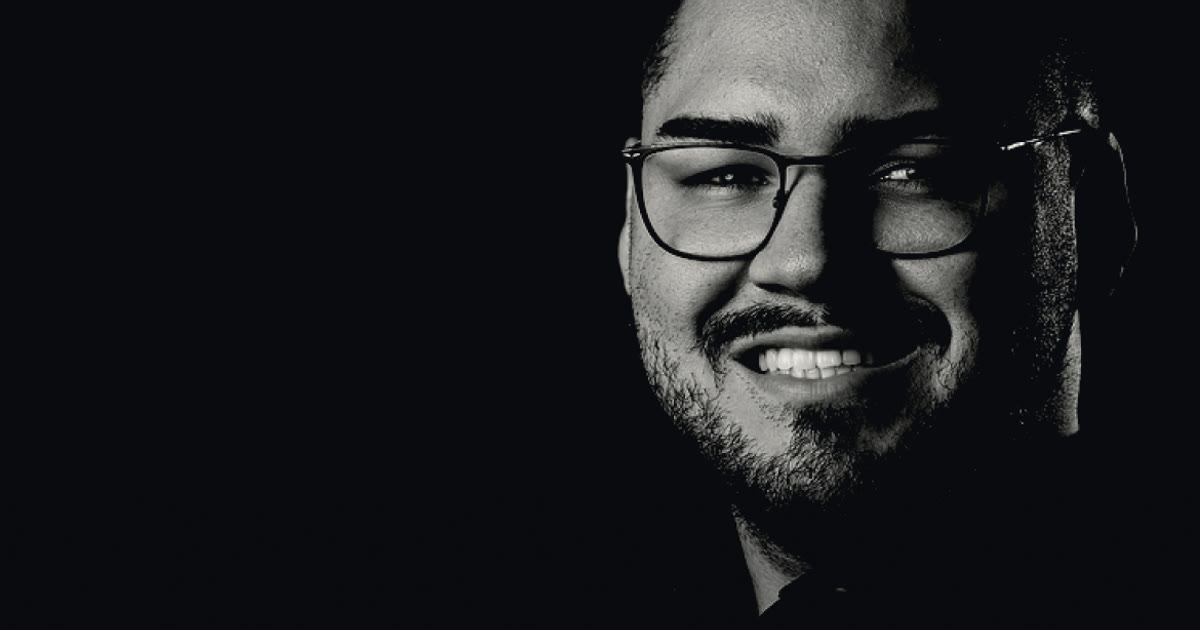
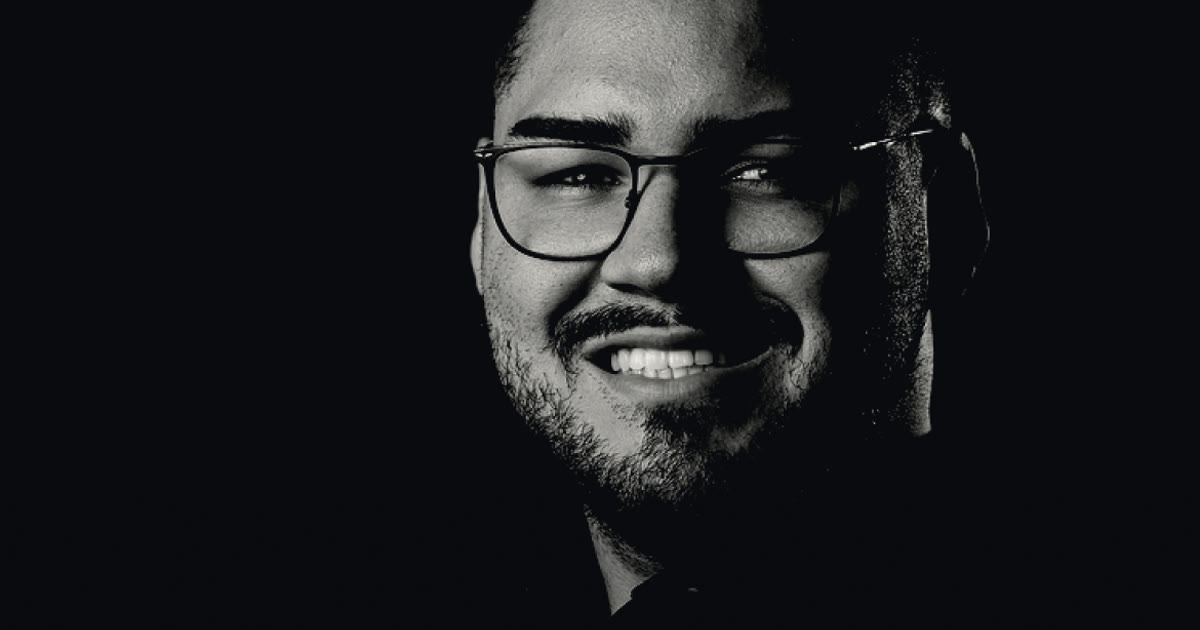
Sanfonas fechadas, botões arredondados e foto mais à esquerda

diff --git a/index.html b/index.html
@@ -47,21 +47,21 @@ img{display:block;max-width:100%}
 .faixa-grupo span{font-size:17px;font-weight:700;letter-spacing:-.01em;white-space:nowrap}
 .faixa-grupo svg{width:14px;height:14px;flex:none}
 .links{padding:40px 24px 48px;display:grid;gap:12px}
-.link{display:flex;align-items:center;gap:16px;padding:18px 20px;background:linear-gradient(90deg,#ECE7DD,#DCD6CA);transition:transform .25s ease,box-shadow .25s ease}
+.link{display:flex;align-items:center;gap:16px;padding:18px 20px;border-radius:20px;background:var(--linen);transition:transform .25s ease,box-shadow .25s ease}
 .link:hover,.link:focus-visible{transform:translateY(-2px);box-shadow:0 10px 24px -14px rgba(10,10,15,.45)}
 .link:active{transform:translateY(0) scale(.99)}
 .link-textos{flex:1;display:grid;gap:4px;min-width:0}
 .link-rotulo{font-size:10px;font-weight:600;letter-spacing:.14em;text-transform:uppercase;opacity:.55}
 .link-titulo{font-size:18px;font-weight:700;letter-spacing:-.02em;line-height:1.25}
 .link-apoio{font-size:13px;line-height:1.35;opacity:.65}
-.link-botao{width:44px;height:44px;background:linear-gradient(90deg,#24242C,#0A0A0F);display:grid;place-items:center;flex:none}
+.link-botao{width:44px;height:44px;border-radius:50%;background:var(--ink);display:grid;place-items:center;flex:none}
 .link-botao svg{width:16px;height:16px;transform:rotate(-45deg);transition:transform .25s ease}
 .link:hover .link-botao svg,.link:focus-visible .link-botao svg{transform:rotate(-45deg) translateX(3px)}
-.link-destaque{background:linear-gradient(90deg,#C10016,#8E0010);color:var(--creme);padding:24px 20px}
+.link-destaque{background:var(--carmim);color:var(--creme);padding:24px 20px}
 .link-destaque .link-rotulo{opacity:.75}
 .link-destaque .link-titulo{font-size:22px}
 .link-destaque .link-apoio{opacity:.85}
-.link-destaque .link-botao{background:linear-gradient(90deg,#FFFFFF,#EDE6D8)}
+.link-destaque .link-botao{background:var(--creme)}
 .servicos{background:var(--ink);color:var(--creme);padding:56px 24px}
 .servicos-topo{display:grid;gap:12px;padding-bottom:24px}
 .titulo-secao{font-size:32px;font-weight:700;letter-spacing:-.03em;line-height:1.05}
@@ -155,7 +155,7 @@ a:focus-visible,button:focus-visible{outline:2px solid var(--roxo);outline-offse
       <p>Se a sua marca merece mais que improviso e quer virar referência, precisa de um marketing que enxergue o todo.</p>
     </div>
     <div class="sanfona">
-      <div class="item aberto"><button class="item-botao" aria-expanded="true"><span class="item-num">01</span><span class="item-titulo">Estratégia e gestão de marcas</span><svg class="item-mais" viewBox="0 0 18 18" aria-hidden="true"><path d="M9 0V18M0 9H18" stroke="#A855F7" stroke-width="6"/></svg></button><div class="item-corpo"><div><p>Posicionamento claro, proposta de valor e uma voz coerente em cada ponto de contato. Com acompanhamento contínuo, a marca deixa de ser mais uma e vira referência.</p></div></div></div>
+      <div class="item"><button class="item-botao" aria-expanded="false"><span class="item-num">01</span><span class="item-titulo">Estratégia e gestão de marcas</span><svg class="item-mais" viewBox="0 0 18 18" aria-hidden="true"><path d="M9 0V18M0 9H18" stroke="#A855F7" stroke-width="6"/></svg></button><div class="item-corpo"><div><p>Posicionamento claro, proposta de valor e uma voz coerente em cada ponto de contato. Com acompanhamento contínuo, a marca deixa de ser mais uma e vira referência.</p></div></div></div>
       <div class="item"><button class="item-botao" aria-expanded="false"><span class="item-num">02</span><span class="item-titulo">Identidade visual</span><svg class="item-mais" viewBox="0 0 18 18" aria-hidden="true"><path d="M9 0V18M0 9H18" stroke="#A855F7" stroke-width="6"/></svg></button><div class="item-corpo"><div><p>Logo, cores, tipografia e um sistema que mantém tudo coerente. Mais do que bonita, a identidade precisa mostrar o que a marca é.</p></div></div></div>
       <div class="item"><button class="item-botao" aria-expanded="false"><span class="item-num">03</span><span class="item-titulo">Growth marketing</span><svg class="item-mais" viewBox="0 0 18 18" aria-hidden="true"><path d="M9 0V18M0 9H18" stroke="#A855F7" stroke-width="6"/></svg></button><div class="item-corpo"><div><p>Atrair novos pacientes é só uma parte. Growth também é manter quem já chegou por perto e traçar a estratégia para o negócio crescer, com decisões baseadas em dados.</p></div></div></div>
       <div class="item"><button class="item-botao" aria-expanded="false"><span class="item-num">04</span><span class="item-titulo">IA com direção criativa</span><svg class="item-mais" viewBox="0 0 18 18" aria-hidden="true"><path d="M9 0V18M0 9H18" stroke="#A855F7" stroke-width="6"/></svg></button><div class="item-corpo"><div><p>A IA potencializa o processo criativo e abre novas possibilidades. No negócio, ajuda a tomar decisões com mais clareza, otimizando processos e transformando dados em informação.</p></div></div></div>
